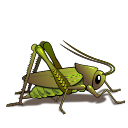
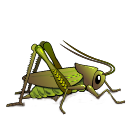
honey food ability

Changed region(s): [[0.1875, 0.6875, 0.9375, 0.875]]

diff --git a/GodotAutoPets/Scenes/CardArea2D.cs b/GodotAutoPets/Scenes/CardArea2D.cs
@@ -10,12 +10,16 @@ public class CardArea2D : Area2D
     int _cardIndex;
     bool _cancelCardReorder = true;
     bool _showLevelLabel;
+    float[] _foodAbilityModulateValues = new float[2] { 0.0f, 1.0f };
 
     public CardSlotNode2D CardSlotNode2D { get { return GetParent() as CardSlotNode2D; } }
 
     public int CardIndex { get { return _cardIndex; } }
 
     public Sprite Sprite { get { return GetNode<Sprite>("Sprite"); } }
+    public Sprite FoodAbilitySprite { get { return GetNode<Sprite>("FoodAbilitySprite"); } }
+    public Tween FoodAbilityModulateTween { get { return GetNode<Tween>("FoodAbilityModulateTween"); } }
+    public Tween FoodAbilityPositionTween { get { return GetNode<Tween>("FoodAbilityPositionTween"); } }
     public CollisionShape2D CollisionShape2D { get { return GetNode<CollisionShape2D>("CollisionShape2D"); } }
 
     public CardAttrsNode2D CardAttrsNode2D { get { return GetNode<CardAttrsNode2D>("CardAttrsNode2D"); } }
@@ -36,6 +40,7 @@ public class CardArea2D : Area2D
     public void HideCard()
     {
         Sprite.Hide();
+        FoodAbilitySprite.Hide();
         CardAttrsNode2D.Hide();
         LevelLabel.Hide();
     }
@@ -48,6 +53,14 @@ public class CardArea2D : Area2D
             LevelLabel.Show();
     }
 
+    void StartFoodAbilityModulateTween()
+    {
+        FoodAbilityModulateTween.InterpolateProperty(FoodAbilitySprite, "modulate:a",
+            _foodAbilityModulateValues[0], _foodAbilityModulateValues[1], 2f, 
+            Tween.TransitionType.Linear, Tween.EaseType.In);
+        FoodAbilityModulateTween.Start();
+    }
+
     public void RenderCard(AutoPets.Card card, int index, bool showLevelLabel = true)
     {
         _cardIndex = index;
@@ -58,13 +71,28 @@ public class CardArea2D : Area2D
             HideCard();
         else
         {
-            var res = GD.Load(string.Format("res://Assets/Pets/{0}.png", card.Ability.GetType().Name));
+            var res = GD.Load($"res://Assets/Pets/{card.Ability.GetType().Name}.png");
             Sprite.Texture = res as Godot.Texture;
             AttackPointsLabel.Text = card.AttackPoints.ToString();
             HitPointsLabel.Text = card.HitPoints.ToString();
             LevelLabel.Text = string.Format("Lvl{0}{1}", card.Level, new string('+', card.XPRemainder));
             ShowCard();
+            if (card.FoodAbility != null)
+            {
+                res = GD.Load($"res://Assets/FoodAbilities/{card.FoodAbility.GetType().Name}.png");
+                FoodAbilitySprite.Texture = res as Godot.Texture;
+                FoodAbilitySprite.Show();
+            }
+            else
+                FoodAbilitySprite.Hide();
         }
+    }
+
+    public void _on_FoodAbilityModulateTween_tween_completed(object Object, NodePath key)
+    {
+        // reverse back and forth from visible to not
+        Array.Reverse( _foodAbilityModulateValues);
+        StartFoodAbilityModulateTween();
     }
 
     public void _on_Area2D_mouse_entered()
@@ -200,6 +228,12 @@ public class CardArea2D : Area2D
         Connect("StartStopDragSignal", this, "_signal_StartStopDrag");
         _defaultPosition = Position;
         _defaultZIndex = ZIndex;
+        StartFoodAbilityModulateTween();
+        FoodAbilityPositionTween.InterpolateProperty(FoodAbilitySprite, "position",
+            new Vector2(Sprite.Position.x + 40, Sprite.Position.y + 40), 
+            new Vector2(Sprite.Position.x - 40, Sprite.Position.y - 40), 4f, 
+            Tween.TransitionType.Linear, Tween.EaseType.In);
+        FoodAbilityPositionTween.Start();
     }
 
     public override void _Process(float delta)

diff --git a/AutoPets/CardCommand.cs b/AutoPets/CardCommand.cs
@@ -95,6 +95,8 @@ namespace AutoPets
             // reference, but a lookup based on Index. Once Card.Faint() is called, the Card instance
             // can no longer be looked up. So we stored Card in _faintedCard in Execute()
             _faintedCard.Ability.Fainted(queue, _faintedCard, Index);
+            if (_faintedCard.FoodAbility != null)
+                _faintedCard.FoodAbility.Fainted(queue, _faintedCard, Index);
             return this;
         }
     }
@@ -179,12 +181,28 @@ namespace AutoPets
 
         public override CardCommand Execute()
         {
-            _summonedCard = new Card(_atDeck, _ability)
+            // normally it wouldn't be necessary to find an empty slot because
+            // an ability would check this before creating the Summon command, however
+            // food abilities can't know if a pet ability summoned something. For example
+            // a cricket with a honey ability will try and summon both a cricket and a bee
+
+            int summonIndex = -1;
+            // find the first empty slot on or after _atIndex
+            for (int i = _atIndex; i < _atDeck.Size; i++)
+                if (_atDeck[i] == null)
+                {
+                    summonIndex = i;
+                    break;
+                }
+            if (summonIndex != -1)
             {
-                HitPoints = _hitPoints,
-                AttackPoints = _attackPoints
-            };
-            _summonedCard.Summon(_atIndex);
+                _summonedCard = new Card(_atDeck, _ability)
+                {
+                    HitPoints = _hitPoints,
+                    AttackPoints = _attackPoints
+                };
+                _summonedCard.Summon(summonIndex);
+            }
             return this;
         }
 

diff --git a/AutoPets/AbilityList.cs b/AutoPets/AbilityList.cs
@@ -40,8 +40,6 @@ namespace AutoPets
         public FishAbility FishAbility { get; }
         public CricketAbility CricketAbility { get; }
         public MosquitoAbility MosquitoAbility { get; }
-        public ZombieCricketAbility ZombieCricketAbility { get; }
-        public DirtyRatAbility DirtyRatAbility { get; }
 
         // Tier 2
         public CrabAbility CrabAbility { get; }
@@ -101,6 +99,10 @@ namespace AutoPets
         public MammothAbility MammothAbility { get; }
         public SnakeAbility SnakeAbility { get; }
         public TigerAbility TigerAbility { get; }
+
+        public ZombieCricketAbility ZombieCricketAbility { get; }
+        public DirtyRatAbility DirtyRatAbility { get; }
+        public ZombieBeeAbility ZombieBeeAbility { get; } 
 
         private AbilityList()
         {
@@ -252,6 +254,8 @@ namespace AutoPets
             AllAbilities.Add(ZombieCricketAbility);
             DirtyRatAbility = new DirtyRatAbility();
             AllAbilities.Add(DirtyRatAbility);
+            ZombieBeeAbility = new ZombieBeeAbility();
+            AllAbilities.Add(ZombieBeeAbility);
         }
     }
 }

diff --git a/AutoPets/StandardFoodAbilities.cs b/AutoPets/StandardFoodAbilities.cs
@@ -5,7 +5,11 @@ namespace AutoPets
 {
     public class HoneyBeeAbility : FoodAbility
     {
-
+        public override void Fainted(CardCommandQueue queue, Card card, int index)
+        {
+            base.Fainted(queue, card, index);
+            queue.Add(new SummonCardCommand(card, card.Deck, index, AbilityList.Instance.ZombieBeeAbility, 1, 1));
+        }
     }
 
     public class BoneAttackAbility : FoodAbility

diff --git a/AutoPets/StandardAbilities.cs b/AutoPets/StandardAbilities.cs
@@ -465,6 +465,15 @@ namespace AutoPets
         }
     }
 
+    public class ZombieBeeAbility : NoAbility
+    {
+        public ZombieBeeAbility()
+        {
+            DefaultAttack = 1;
+            DefaultHP = 1;
+        }
+    }
+
     public class ShrimpAbility : Ability
     {
         public ShrimpAbility() : base()

diff --git a/AutoPets/Card.cs b/AutoPets/Card.cs
@@ -31,6 +31,7 @@ namespace AutoPets
         public Card(Deck deck, Card card)
         {
             _ability = card._ability;
+            _foodAbility = card._foodAbility;
             _deck = deck;
             _index = -1;
             _hitPoints = card._hitPoints;

diff --git a/AutoPets/FoodAbility.cs b/AutoPets/FoodAbility.cs
@@ -5,7 +5,7 @@ namespace AutoPets
 {
     public class FoodAbility
     {
-        public virtual void Fainted(Card card)
+        public virtual void Fainted(CardCommandQueue queue, Card card, int index)
         {
 
         }
